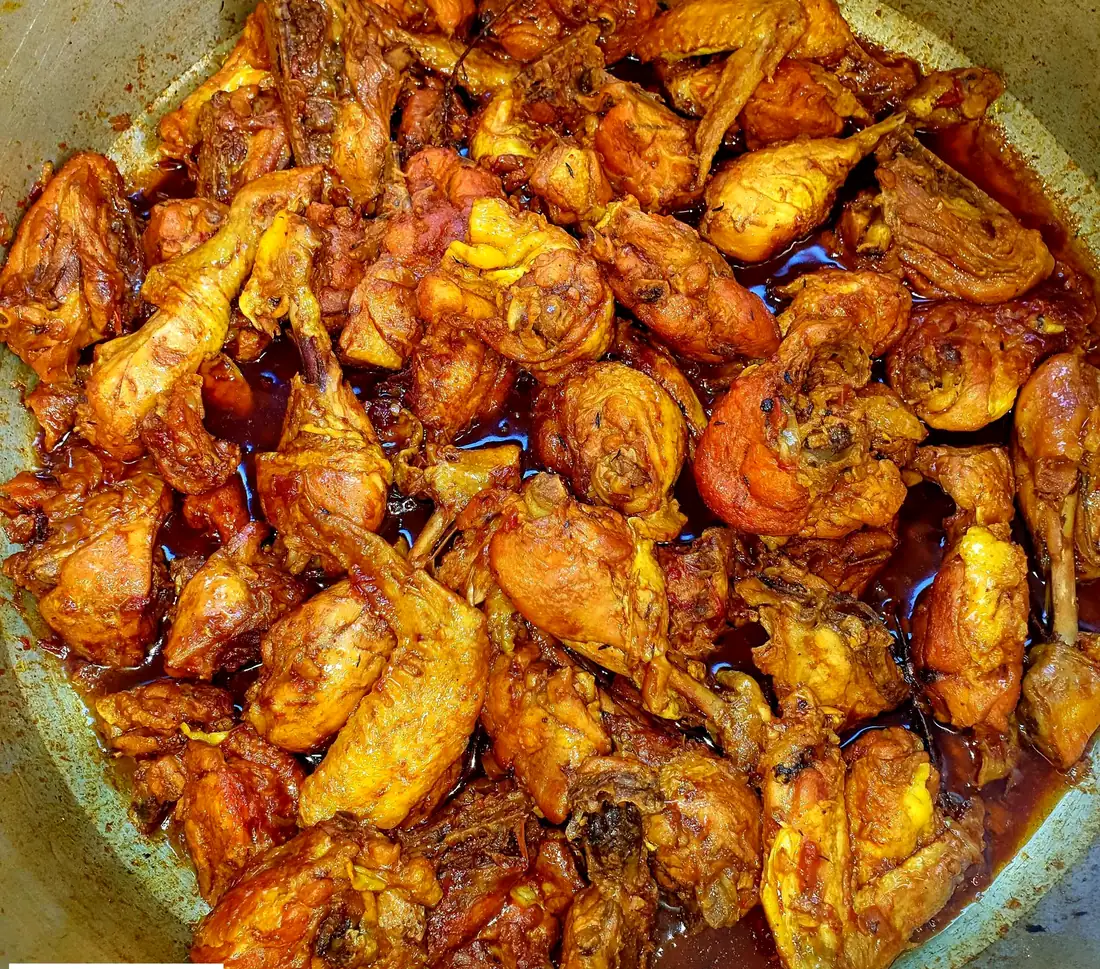
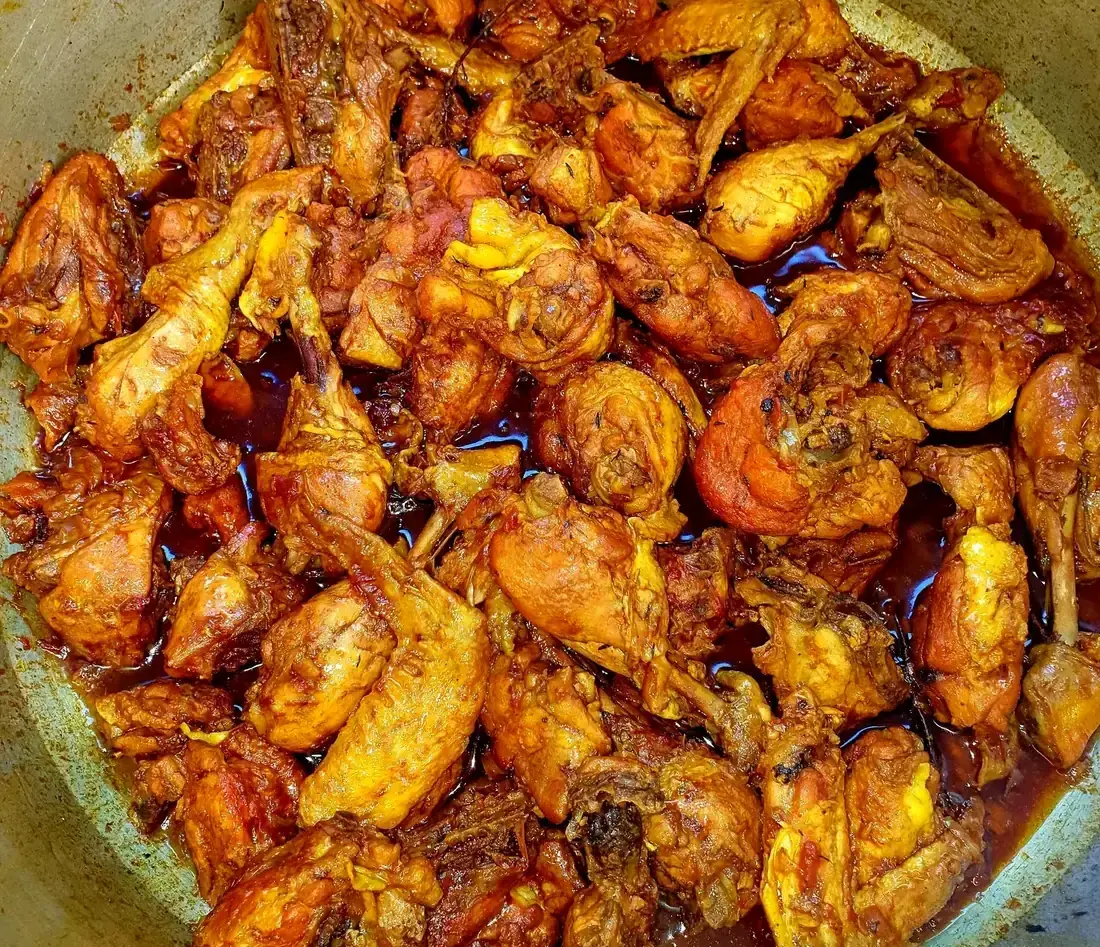
maquette nana-barket-fastfood-entre-deux

diff --git a/nana-barket-fastfood-entre-deux/index.html b/nana-barket-fastfood-entre-deux/index.html
@@ -104,6 +104,10 @@ main{position:relative;z-index:2}
 .photo-cadre{border-radius:28px;overflow:hidden;box-shadow:0 30px 60px -30px rgba(42,20,70,.55);position:relative}
 .photo-cadre img{width:100%;aspect-ratio:3/2;object-fit:cover}
 .photo-cadre .tag{position:absolute;left:12px;top:12px;background:var(--jaune);color:var(--violet-f);font-weight:800;font-size:.78rem;padding:.3rem .8rem;border-radius:999px}
+.illu{margin-top:.4rem}
+.illu svg{width:100%;height:auto;display:block;border-radius:28px;box-shadow:0 30px 60px -30px rgba(42,20,70,.55)}
+.illu figcaption{font-size:.72rem;letter-spacing:.14em;text-transform:uppercase;color:var(--doux);margin-top:.5rem;text-align:right}
+.illu .etoiles circle{animation:brille 2.8s ease-in-out infinite}.illu .etoiles circle:nth-child(2n){animation-delay:1.1s}
 .menu{display:grid;gap:.9rem}
 .ligne{background:#fff;border-radius:20px;padding:1.1rem 1.2rem;display:grid;grid-template-columns:1fr auto;gap:.2rem 1rem;border:2px solid var(--sable);transition:border-color .3s,transform .3s}
 .ligne:hover{border-color:var(--jaune);transform:translateX(4px)}
@@ -233,7 +237,23 @@ footer b{color:var(--jaune)}
     <div class="rv">
       <p class="eyebrow">Le soir</p>
       <h2>Ultra crousty, maxi goût</h2>
-      <div class="photo-cadre"><img src="img/sandwich.webp" alt="Sandwich garni de frites, fromage fondu et crudités" loading="lazy"><span class="tag">Publié le 8 nov.</span></div>
+      <figure class="illu">
+        <svg viewBox="0 0 320 220" role="img" aria-label="Illustration d'un américain garni de frites">
+          <defs><radialGradient id="lune" cx="50%" cy="40%" r="60%"><stop offset="0" stop-color="#5b2f8f"/><stop offset="1" stop-color="#2a1446"/></radialGradient></defs>
+          <rect width="320" height="220" rx="28" fill="url(#lune)"/>
+          <g class="etoiles" fill="#f5d33c"><circle cx="40" cy="36" r="2"/><circle cx="276" cy="30" r="2.4"/><circle cx="250" cy="70" r="1.6"/><circle cx="66" cy="78" r="1.4"/><circle cx="292" cy="112" r="1.8"/></g>
+          <path d="M158 22 140 58h14l-8 30 26-40h-14l10-26z" fill="#f5d33c"/>
+          <g transform="translate(36 96)">
+            <path d="M8 62c0-30 52-44 124-44s116 14 116 44z" fill="#e9a54a"/>
+            <g stroke="#f5d33c" stroke-width="9" stroke-linecap="round"><path d="M40 52l-14-26"/><path d="M70 50l-4-34"/><path d="M104 50l8-36"/><path d="M150 50l16-30"/><path d="M190 52l24-22"/><path d="M128 50l-2-38"/></g>
+            <path d="M6 58q30 10 60 0t62 0 62 0 60 0v10H6z" fill="#7cc36a"/>
+            <path d="M10 64h236c4 0 6 6 2 9-28 22-210 22-240 0-4-3-2-9 2-9z" fill="#fff1c7"/>
+            <path d="M14 70c30 6 200 6 228 0l-6 14c-50 14-166 14-216 0z" fill="#f0c03a"/>
+            <path d="M8 84c4 22 236 22 240 0 2 16-10 30-120 30S6 100 8 84z" fill="#d98a3a"/>
+          </g>
+        </svg>
+        <figcaption>Illustration</figcaption>
+      </figure>
       <p class="note">« Crousty à l'extérieur, fondant à l'intérieur ! » : la promesse des nouveautés du snack.</p>
     </div>
     <div class="menu">
